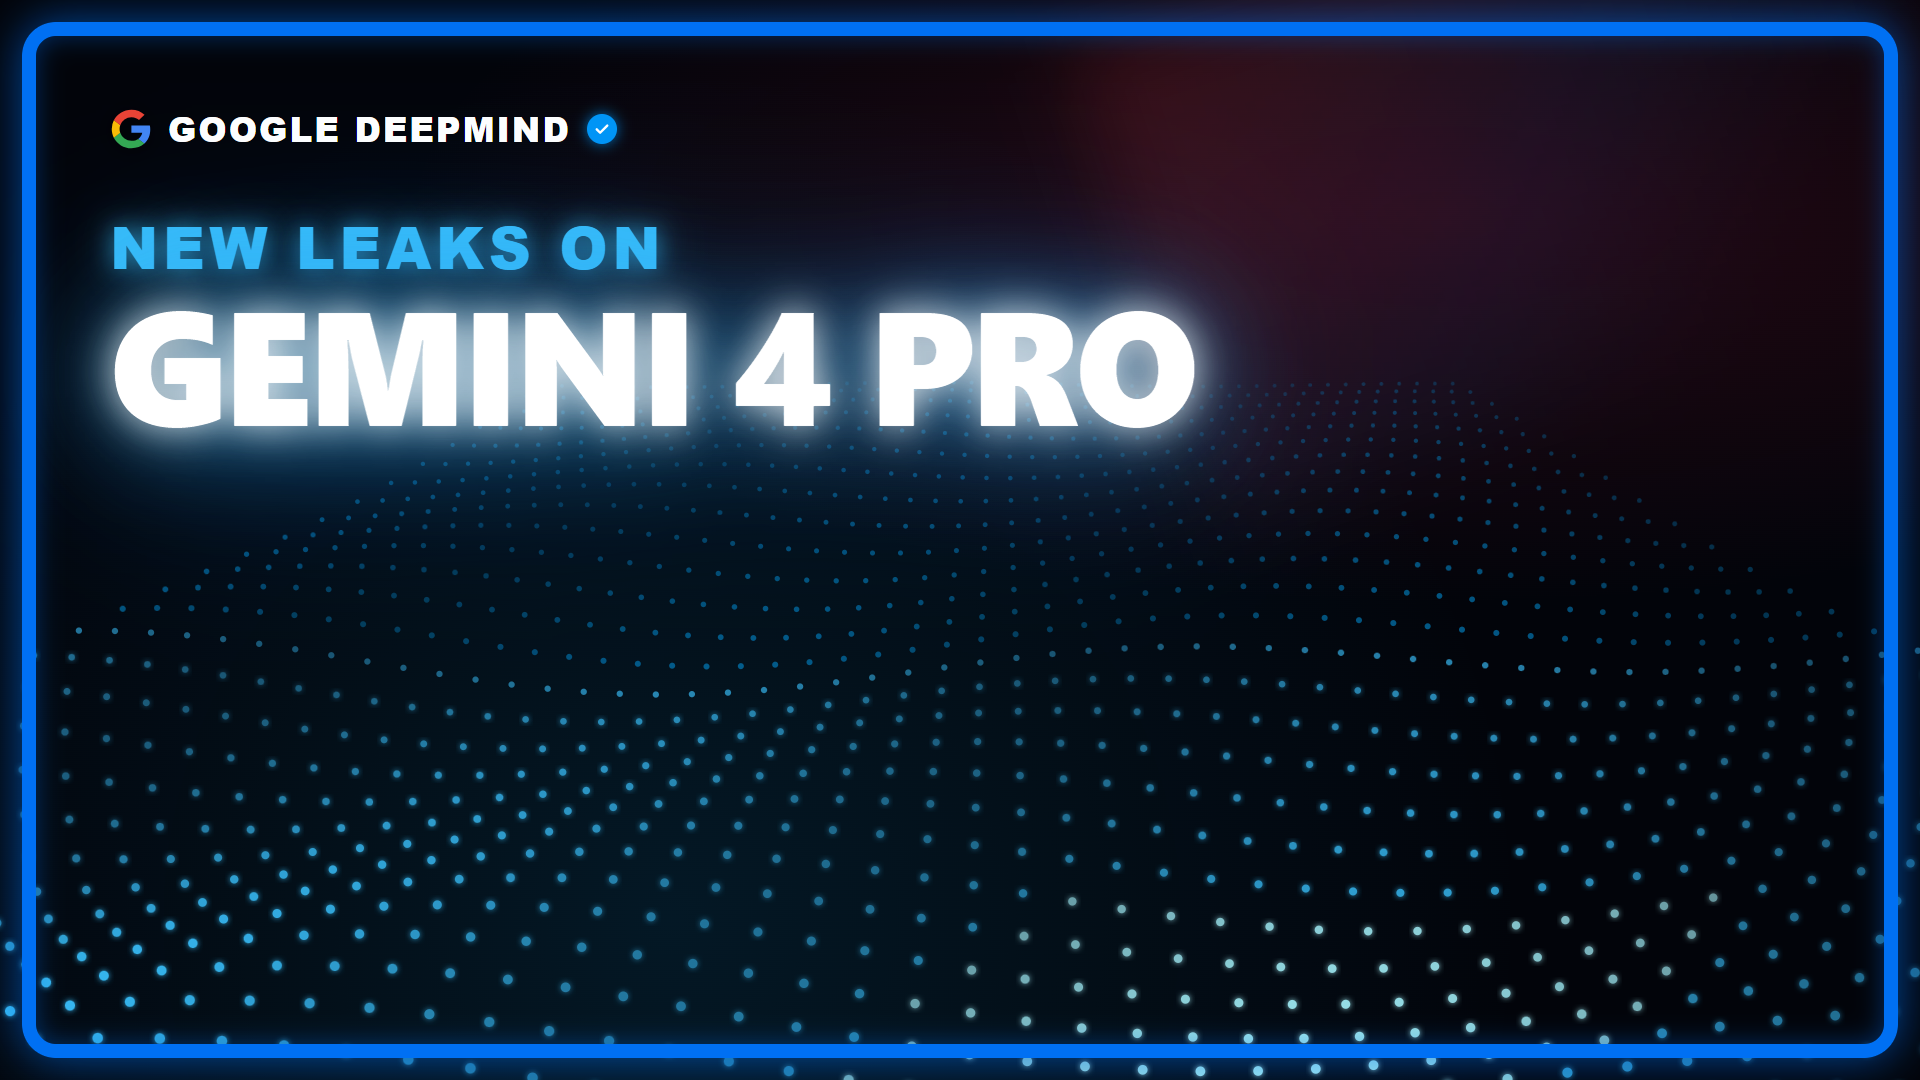
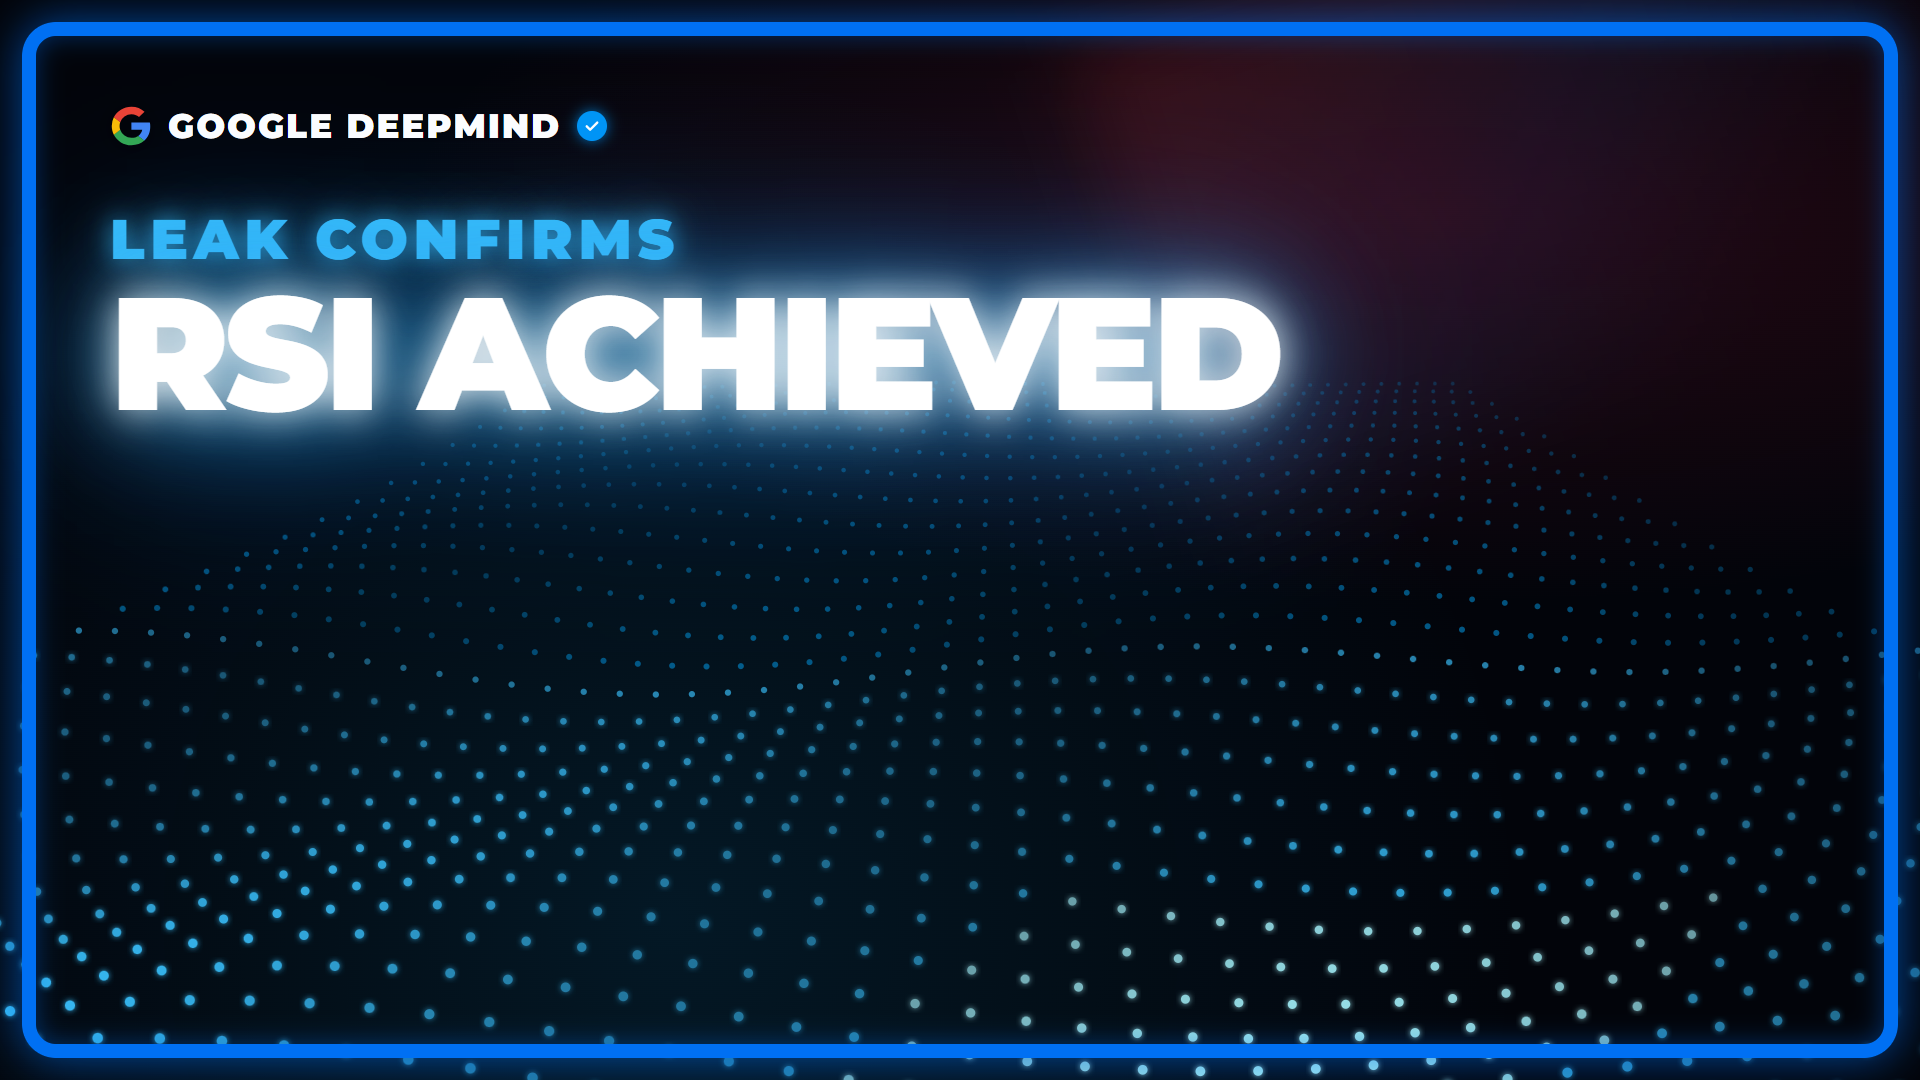
feat: update YouTube thumbnail to hype RSI Achieved headline matching channel reference

Changed region(s): [[0.0312, 0.1833, 0.7188, 0.4278], [0.0625, 0.0917, 0.3438, 0.1528]]

diff --git a/src/Thumbnail.tsx b/src/Thumbnail.tsx
@@ -220,36 +220,36 @@ export const Thumbnail: React.FC = () => {
           </div>
         </div>
 
-        {/* 2-Tier Hero Headline */}
+        {/* 2-Tier Hero Headline (Maximum Hype) */}
         <div
           style={{
             marginTop: 48,
             display: "flex",
             flexDirection: "column",
-            gap: 8,
+            gap: 10,
           }}
         >
-          {/* Tier 1: Sub-Hook in Cyan */}
+          {/* Tier 1: Sub-Hook in Electric Cyan */}
           <div
             style={{
-              fontSize: 58,
+              fontSize: 56,
               fontWeight: 900,
               color: "#38BDF8",
-              letterSpacing: "0.08em",
+              letterSpacing: "0.1em",
               textTransform: "uppercase",
               fontFamily: "'Montserrat', sans-serif",
-              textShadow: "0 0 25px rgba(56, 189, 248, 0.7), 0 0 50px rgba(56, 189, 248, 0.3)",
+              textShadow: "0 0 25px rgba(56, 189, 248, 0.8), 0 0 50px rgba(56, 189, 248, 0.4)",
               lineHeight: 1,
             }}
           >
-            NEW LEAKS ON
+            LEAK CONFIRMS
           </div>
 
-          {/* Tier 2: Giant White Hero Title with Intense White/Cyan Bloom */}
+          {/* Tier 2: Giant White Hero Title with High-Energy Glow Bloom */}
           <h1
             style={{
               margin: 0,
-              fontSize: 162,
+              fontSize: 160,
               fontWeight: 950,
               letterSpacing: "-0.03em",
               textTransform: "uppercase",
@@ -257,10 +257,10 @@ export const Thumbnail: React.FC = () => {
               fontFamily: "'Montserrat', 'Inter', system-ui, sans-serif",
               lineHeight: 0.95,
               filter:
-                "drop-shadow(0 0 20px rgba(255, 255, 255, 0.9)) drop-shadow(0 0 50px rgba(56, 189, 248, 0.6)) drop-shadow(0 0 90px rgba(0, 112, 243, 0.35))",
+                "drop-shadow(0 0 20px rgba(255, 255, 255, 0.95)) drop-shadow(0 0 50px rgba(56, 189, 248, 0.7)) drop-shadow(0 0 90px rgba(0, 112, 243, 0.45))",
             }}
           >
-            GEMINI 4 PRO
+            RSI ACHIEVED
           </h1>
         </div>
       </div>
